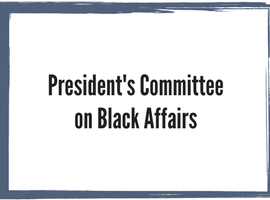
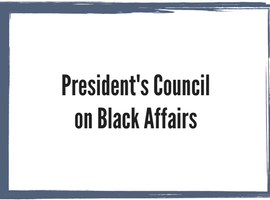
changed involvement tile

Changed region(s): [[0.1778, 0.36, 0.8296, 0.48]]

diff --git a/index.html b/index.html
@@ -649,10 +649,10 @@
 								<div class="modal-dialog modal-lg">
 									<div class="modal-content">
 										<div class="modal-header">
-											<h4 class="modal-title">The President’s Committee on Black Affairs</h4>
+											<h4 class="modal-title">The President’s Council on Black Affairs</h4>
 										</div>
 										<div class="modal-body">
-											<h2 class="text-uppercase">The President’s Committee on Black Affairs</h2>
+											<h2 class="text-uppercase">The President’s Council on Black Affairs</h2>
 											<div class="row">
 												<div class="col-md-8">
 													<p>The President’s Council on Black Affairs was created to help ensure that the university pursues its goals of increasing the diversity of the student body and guaranteeing an excellent experience to its students. </p>
